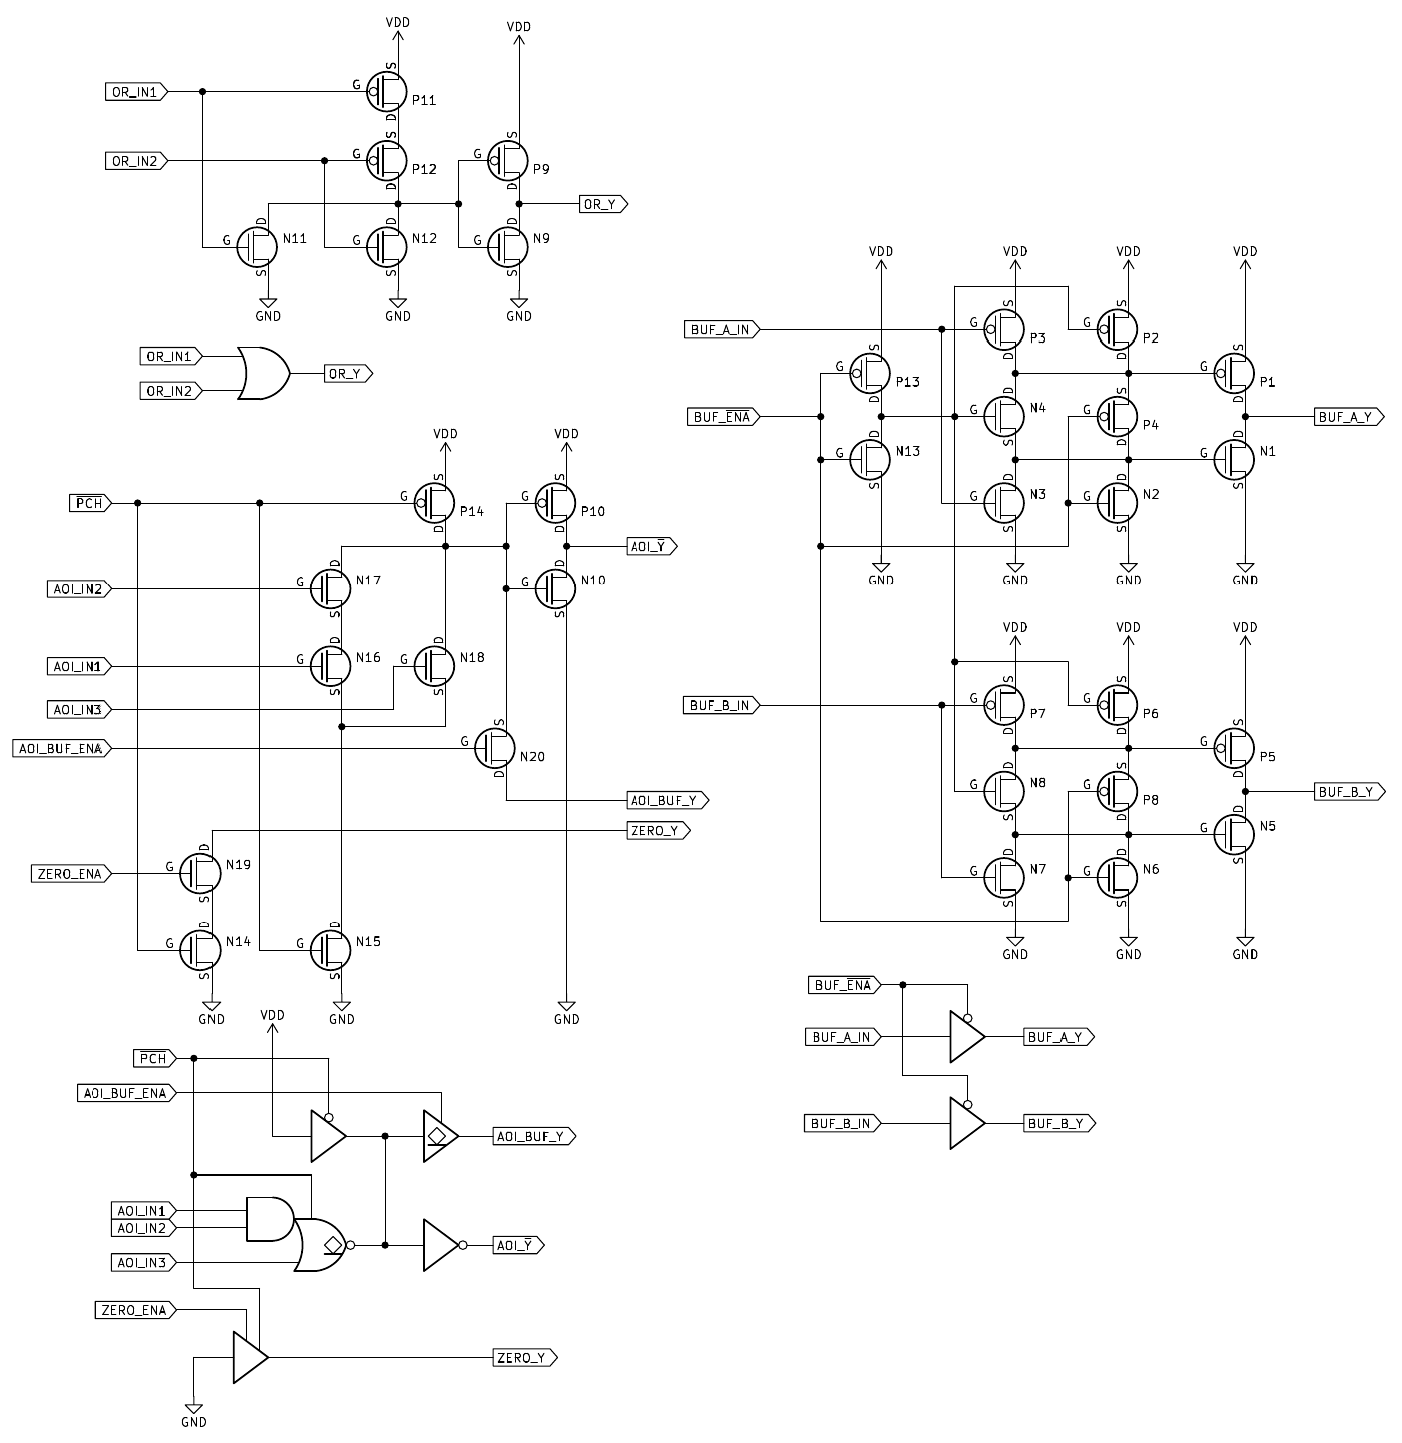
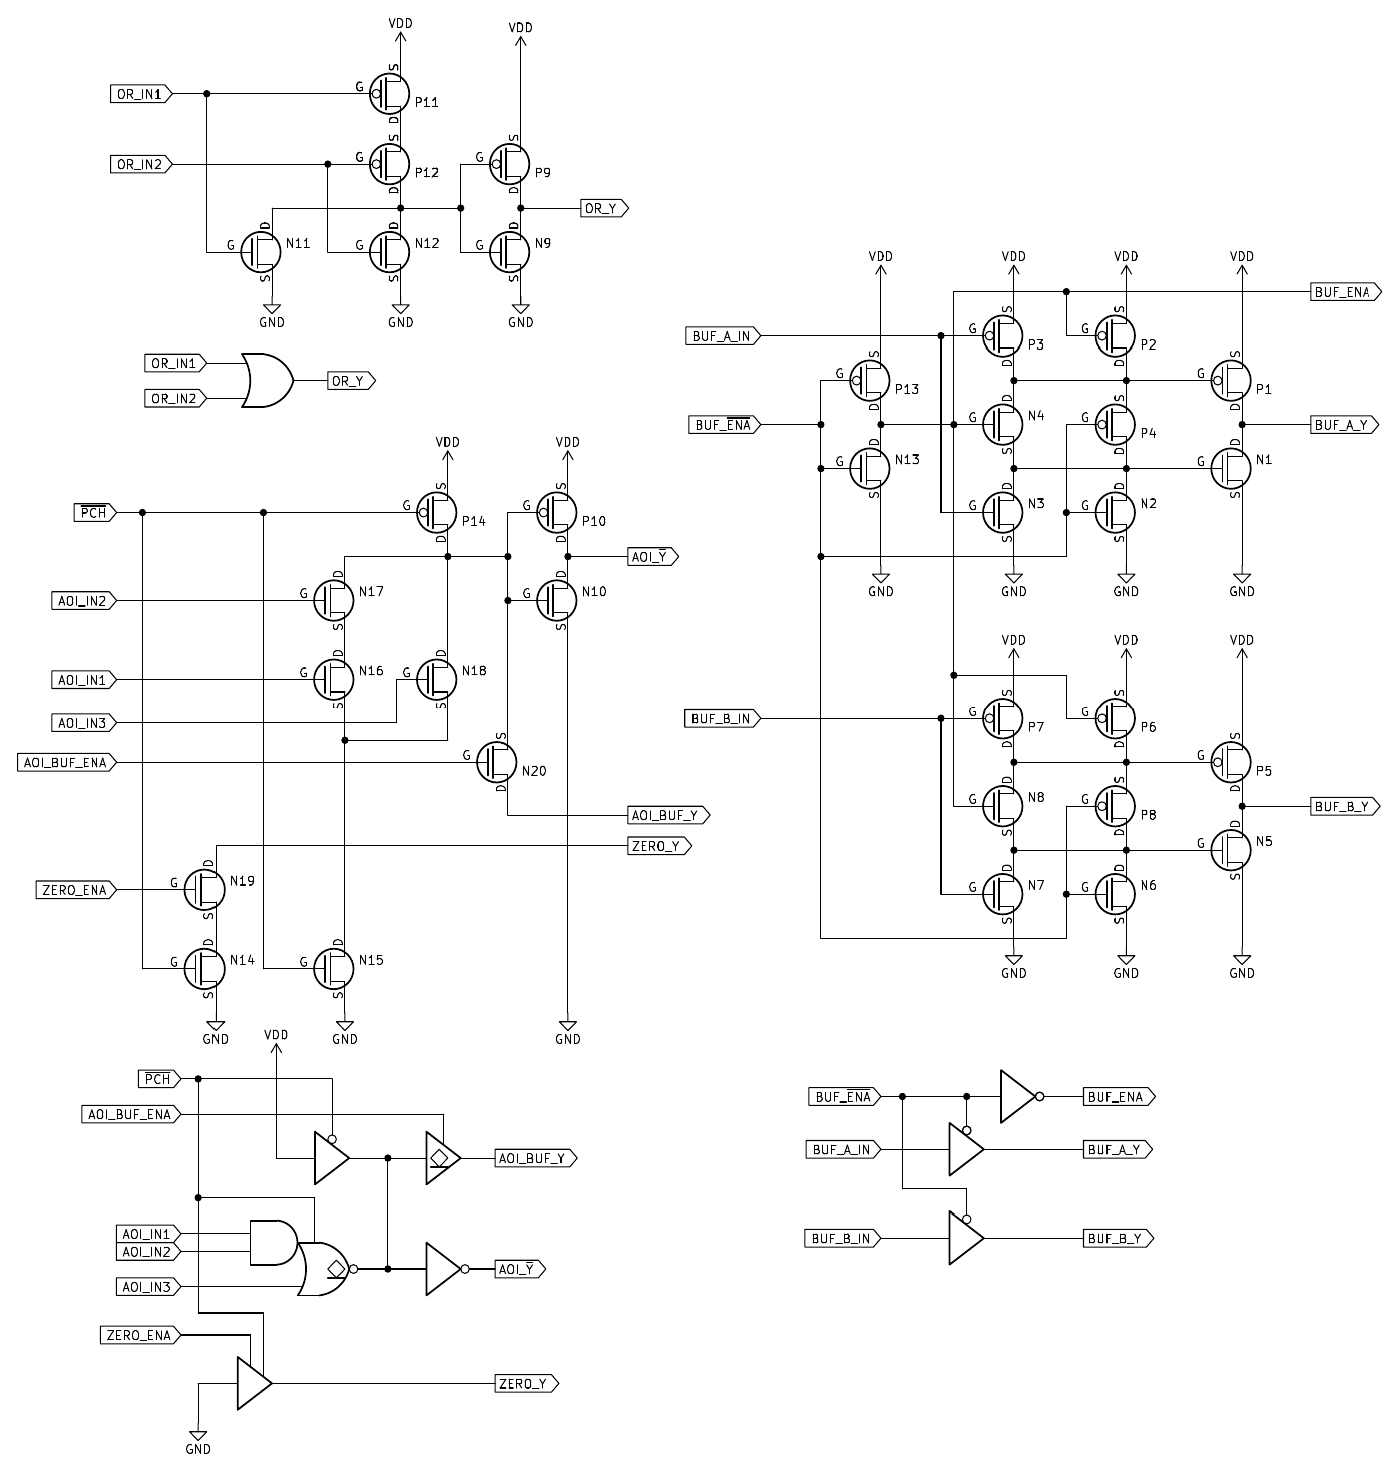
Fix schematic in IDU0 documentation

diff --git a/doc/sm83_cells.html b/doc/sm83_cells.html
@@ -2368,7 +2368,7 @@ high, otherwise the PMOS and NMOS drivers on port <i>A</i> will short circuit.</
 </table></td></tr>
 </table>
 <p><img src="img/cells/sm83/idu_bit0_layout.png?v=1" alt=""></p>
-<p><img src="img/cells/sm83/idu_bit0_sch.png?v=1" alt=""></p>
+<p><img src="img/cells/sm83/idu_bit0_sch.png?v=2" alt=""></p>
 <p>Instances:
 <a href="/sm83_map/?view=c:idu%5b0%5d">IDU[0]</a>
 (1 total)
